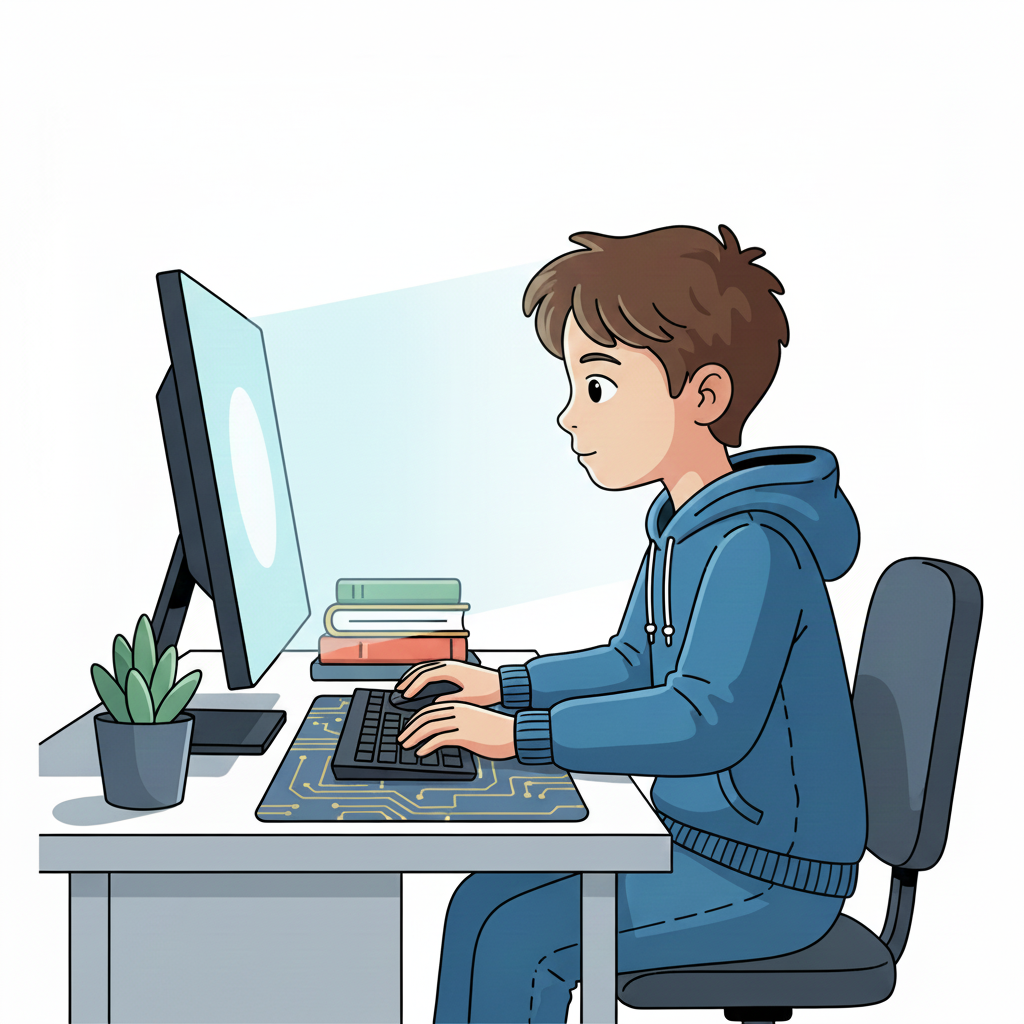
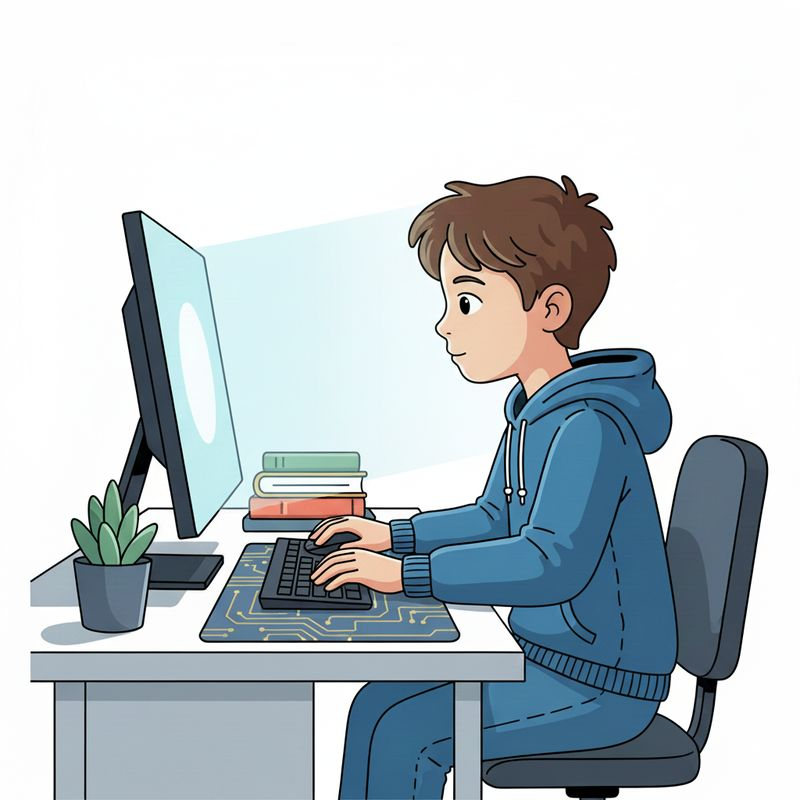
feat: Add dynamic content rendering, fade-in animations, smooth scrolling, and theme toggling with new JavaScript and an optimized profile image.

diff --git a/js/script.js b/js/script.js
@@ -128,37 +128,32 @@ document.querySelectorAll('a[href^="#"]').forEach(anchor => {
 
 // Loader Logic
 window.addEventListener('load', () => {
-    setTimeout(() => {
-        const loader = document.getElementById('loader-wrapper');
-        if (loader) {
-            loader.classList.add('loaded');
-            // Allow scrolling again if we blocked it (optional, but good practice if body was hidden)
-            document.body.style.overflow = 'auto'; // ensure scrolling is enabled
+    const loader = document.getElementById('loader-wrapper');
+    if (loader) {
+        loader.classList.add('loaded');
+        // Allow scrolling again if we blocked it (optional, but good practice if body was hidden)
+        document.body.style.overflow = 'auto'; // ensure scrolling is enabled
+    }
+
+    // Theme Toggle Logic
+    const themeToggleBtn = document.getElementById('theme-toggle');
+    const sunIcon = document.querySelector('.sun-icon');
+    const moonIcon = document.querySelector('.moon-icon');
+
+    // Default to Dark Mode (No localStorage check)
+
+    themeToggleBtn.addEventListener('click', () => {
+        let theme = document.documentElement.getAttribute('data-theme');
+        if (theme === 'light') {
+            document.documentElement.setAttribute('data-theme', 'dark');
+            // localStorage.setItem('theme', 'dark'); // Persistence removed
+            sunIcon.style.display = 'block';
+            moonIcon.style.display = 'none';
+        } else {
+            document.documentElement.setAttribute('data-theme', 'light');
+            // localStorage.setItem('theme', 'light'); // Persistence removed
+            sunIcon.style.display = 'none';
+            moonIcon.style.display = 'block';
         }
-
-        // Theme Toggle Logic
-        const themeToggleBtn = document.getElementById('theme-toggle');
-        const sunIcon = document.querySelector('.sun-icon');
-        const moonIcon = document.querySelector('.moon-icon');
-
-        // Default to Dark Mode (No localStorage check)
-
-        themeToggleBtn.addEventListener('click', () => {
-            let theme = document.documentElement.getAttribute('data-theme');
-            if (theme === 'light') {
-                document.documentElement.setAttribute('data-theme', 'dark');
-                // localStorage.setItem('theme', 'dark'); // Persistence removed
-                sunIcon.style.display = 'block';
-                moonIcon.style.display = 'none';
-            } else {
-                document.documentElement.setAttribute('data-theme', 'light');
-                // localStorage.setItem('theme', 'light'); // Persistence removed
-                sunIcon.style.display = 'none';
-                moonIcon.style.display = 'block';
-            }
-        });
-
-
-
-    }, 500); // Minimum 0.5 seconds loader
+    });
 });

diff --git a/index.html b/index.html
@@ -25,6 +25,7 @@
     <link rel="preconnect" href="https://fonts.gstatic.com" crossorigin>
     <link href="https://fonts.googleapis.com/css2?family=Inter:wght@300;400;600;700&display=swap" rel="stylesheet">
     <link rel="stylesheet" href="css/style.css">
+    <script src="js/script.js" defer></script>
 </head>
 
 <body>
@@ -94,7 +95,8 @@
             </div>
             <div class="hero-image fade-in delay-3">
                 <div class="image-wrapper">
-                    <img src="assets/profil_optimized.jpg" alt="Randi Afrinal" loading="lazy">
+                    <img src="assets/profil_optimized.jpg" alt="Randi Afrinal" fetchpriority="high" width="300"
+                        height="300">
                 </div>
             </div>
         </div>
@@ -178,7 +180,7 @@
         </p>
     </footer>
 
-    <script src="js/script.js"></script>
+    <!-- Moved to head with defer -->
 </body>
 
 </html>
